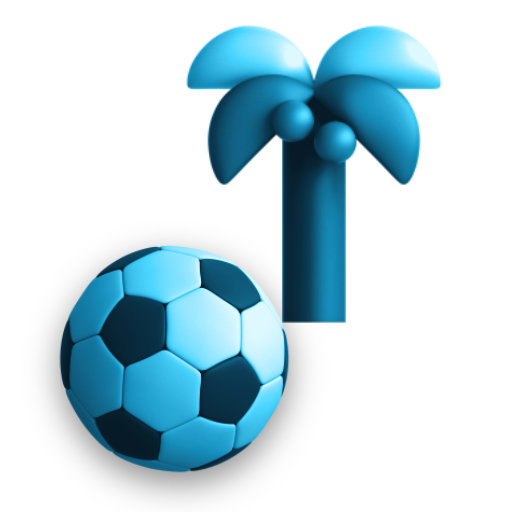
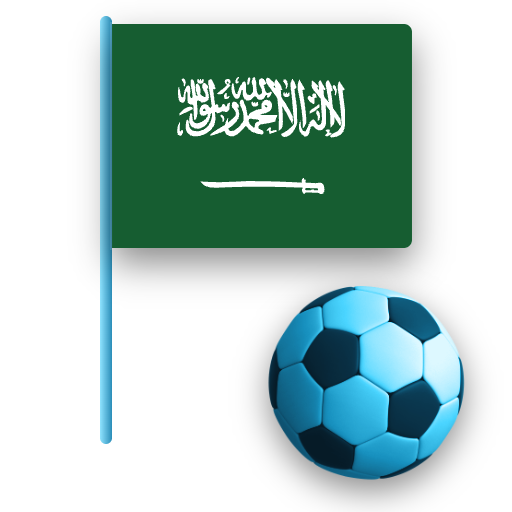
Saudi football card art: the Saudi flag on its pole beside the ball
The flag keeps its real colors and is not overlapped, recolored or tinted;
the pole sits on the hoist side.

diff --git a/scripts/art/compose.html b/scripts/art/compose.html
@@ -76,8 +76,9 @@
 </div>
 
 <div class="stage" data-art="football-saudi">
-  <img src="out/palm_tree.png" style="right: 14px; top: 2px; width: 170px">
-  <img class="drop" src="out/soccer_ball.png" style="left: 18px; bottom: 8px; width: 138px">
+  <div style="left: 50px; top: 8px; width: 6px; height: 214px; border-radius: 3px; background: linear-gradient(90deg, #8fe3ff, #2a8db8);"></div>
+  <img src="../../client/public/flags/sa.svg" style="left: 56px; top: 12px; width: 150px; height: 112px; object-fit: cover; border-radius: 0 4px 4px 0; box-shadow: 0 8px 18px rgb(0 0 0 / 0.45), 0 0 0 1px rgb(255 255 255 / 0.15);">
+  <img class="drop" src="out/soccer_ball.png" style="right: 14px; bottom: 6px; width: 118px">
 </div>
 
 <script>

diff --git a/client/src/components/art.tsx b/client/src/components/art.tsx
@@ -38,7 +38,7 @@ const BANKS = new Set([
  * رقمُ نسخة الصور: يُرفع كلما أُعيد صنعُها. ملفاتُ public تُخزَّن ساعةً
  * عند المتصفّح، فلو بقي الاسمُ نفسه لرأى من فتح الصفحة قبلُ الصورَ القديمة.
  */
-const ART_VERSION = 7;
+const ART_VERSION = 8;
 
 function Picture({ name }: { name: string }) {
   return (
